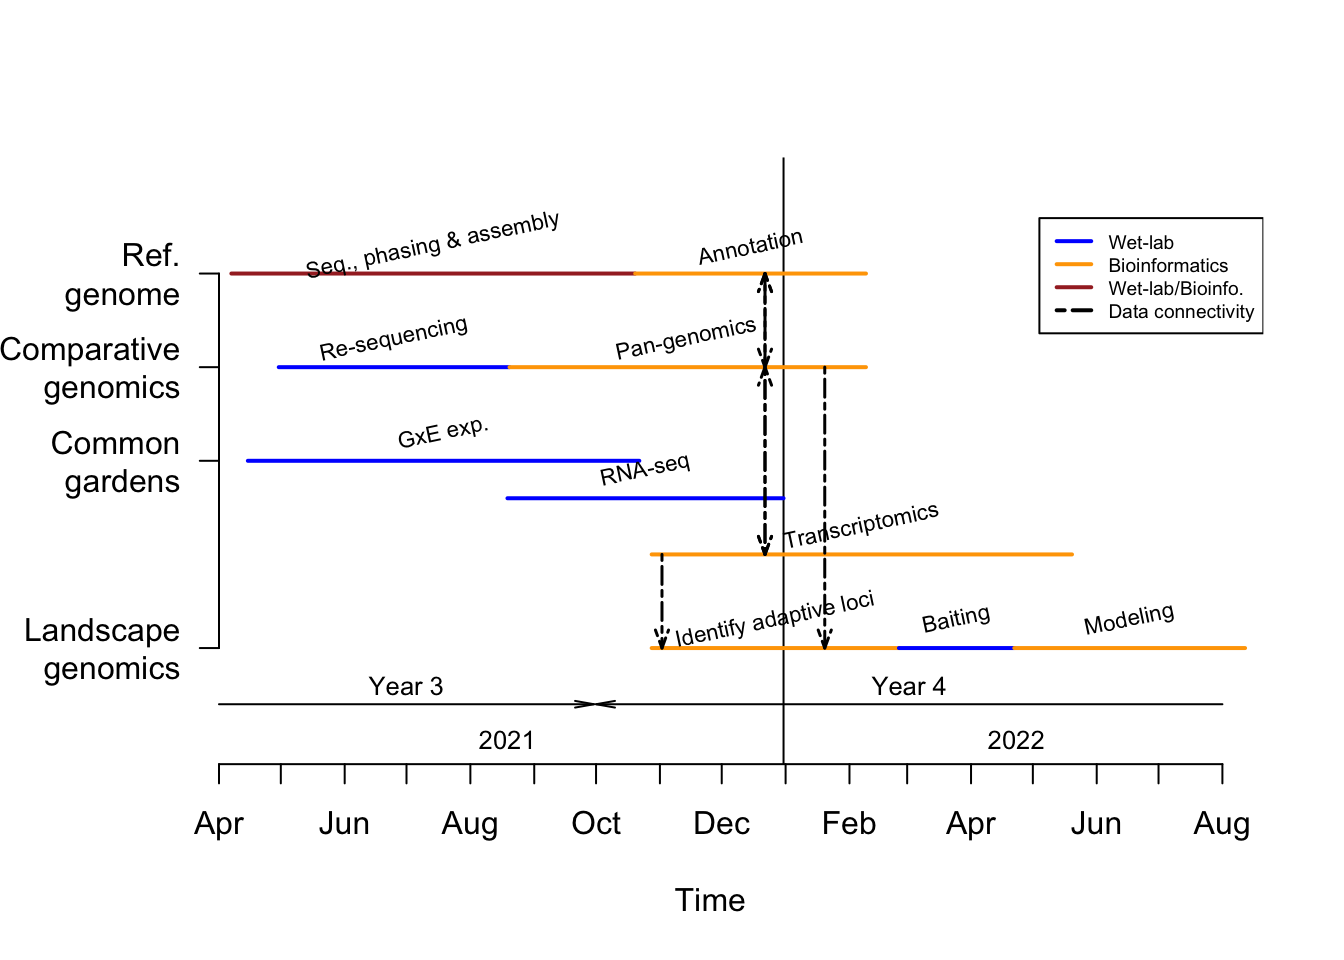
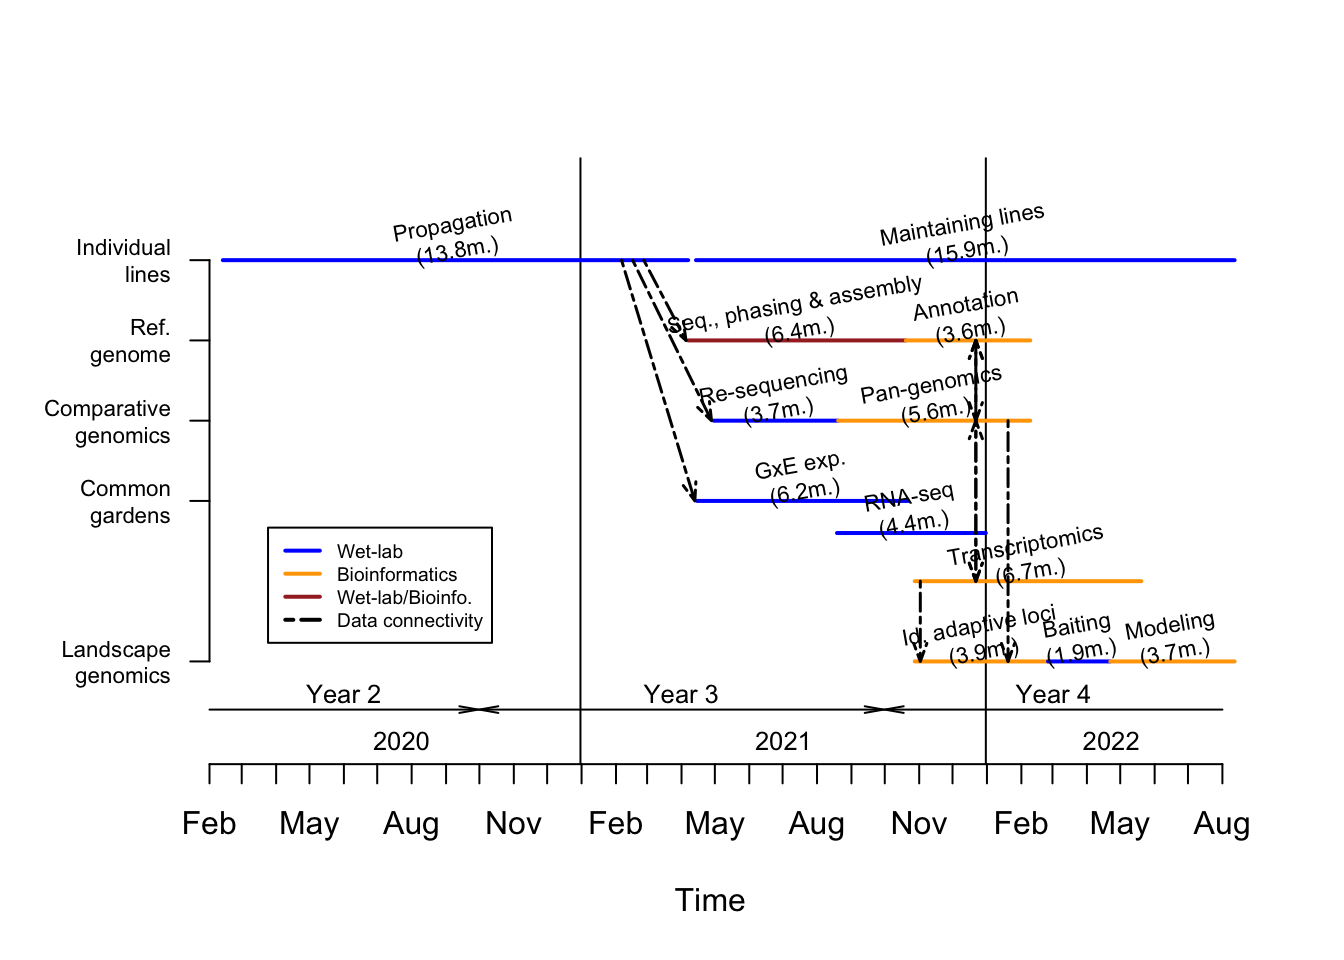
Updated index with new timetable

diff --git a/index.html b/index.html
@@ -371,7 +371,7 @@ $(document).ready(function() {
 <h1><span class="header-section-number">3</span> Timetable</h1>
 <p>The predicted timetable for completion of the sagebrush genome project to support objectives of the GEM3 project is provided in Figure <a href="#fig:timetab">3.1</a>. Assembling and annotating the sagebrush genome will serve to assess adaptive capacity of sagebrush populations to cope with drought and heat driven by climate change. This will be done by conducting common garden experiments on <a href="Individual_lines.html">individual lines</a> of known genomes (serving establishing reference genome and whole genome re-sequencing therefore comparing genomes using a pan-genomics approach) and then at landscape level using adaptive loci (sequenced using a baiting approach) on plants from across the climatic and geographic range of the species.</p>
 <div class="figure"><span id="fig:timetab"></span>
-<img src="Figures/timetable_whole_project.jpg" alt="Timetable associated to production of data for the sagebrush genome project. Please see text for more details." width="100%" />
+<img src="index_files/figure-html/timetab-1.png" alt="Timetable associated to production of data for the sagebrush genome project. Please see text for more details." width="100%" />
 <p class="caption">
 Figure 3.1: Timetable associated to production of data for the sagebrush genome project. Please see text for more details.
 </p>
